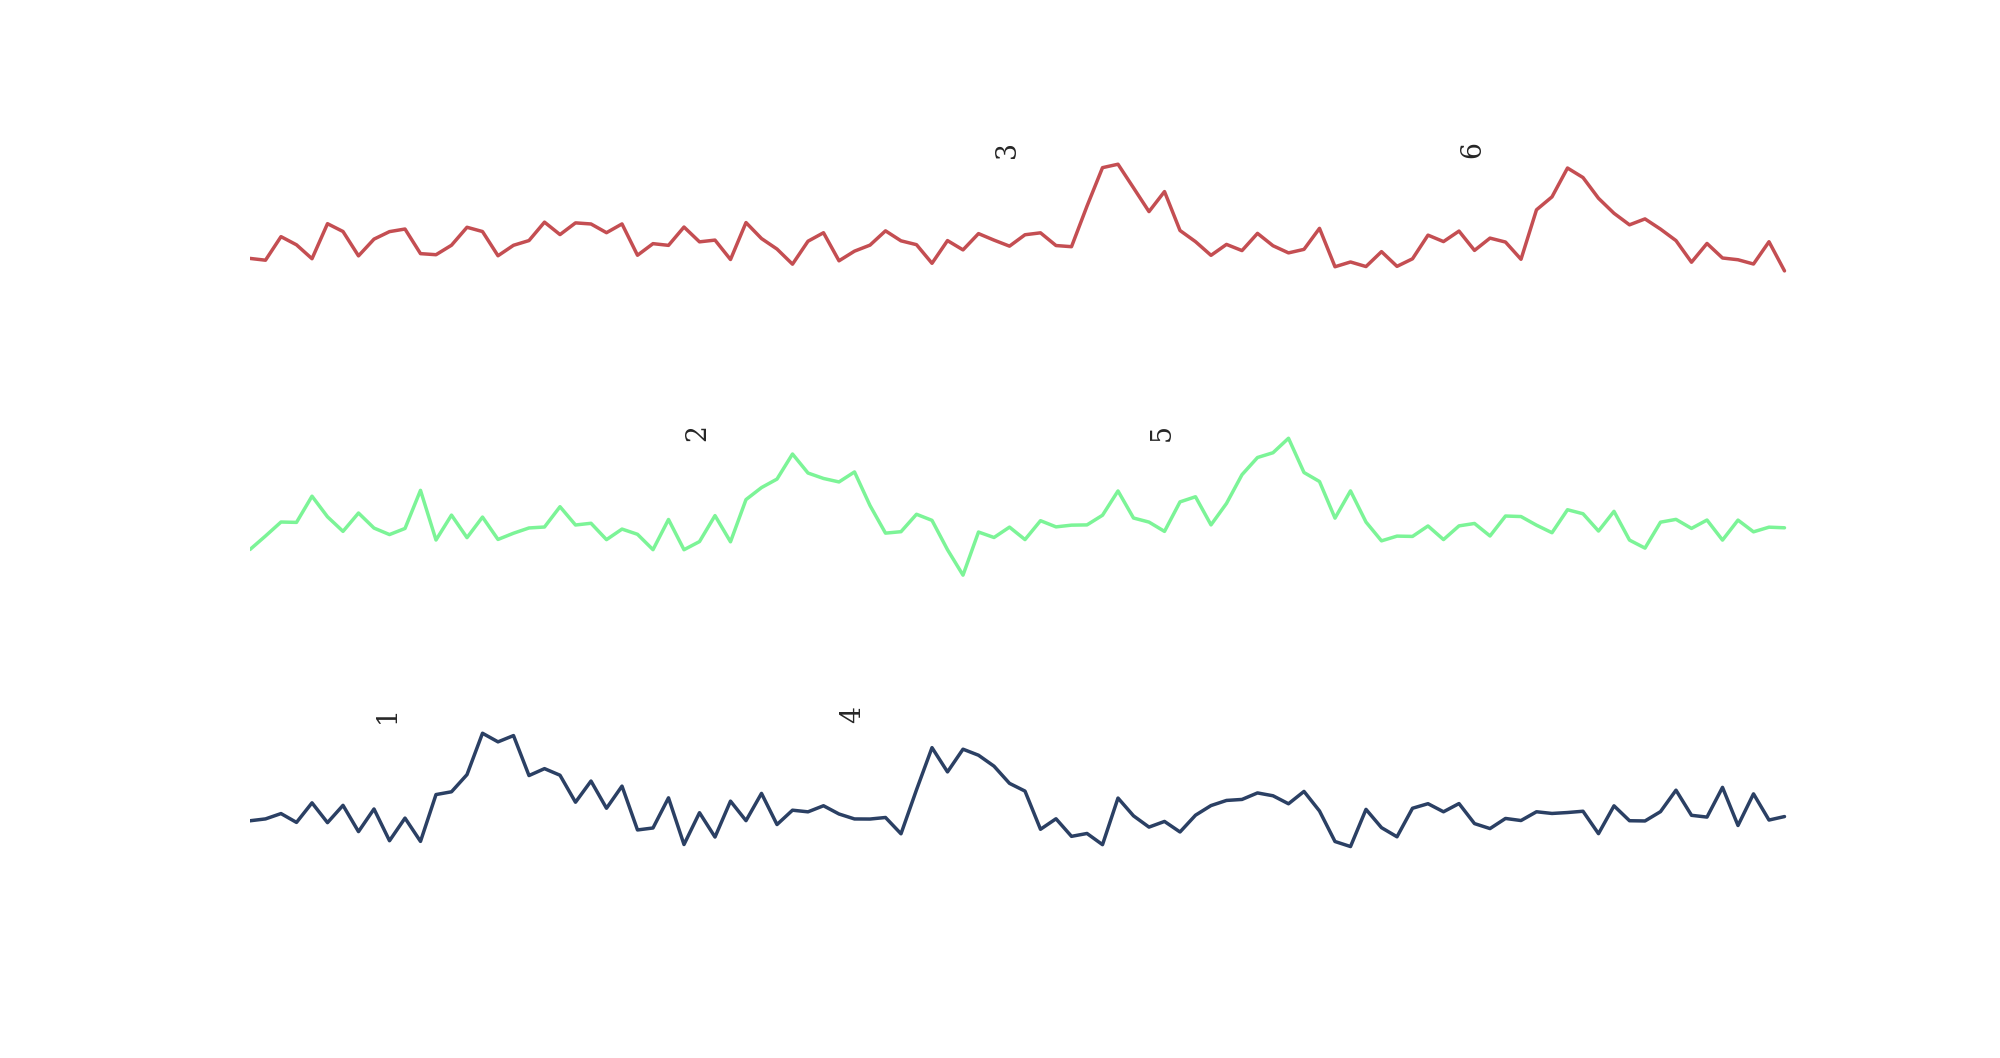
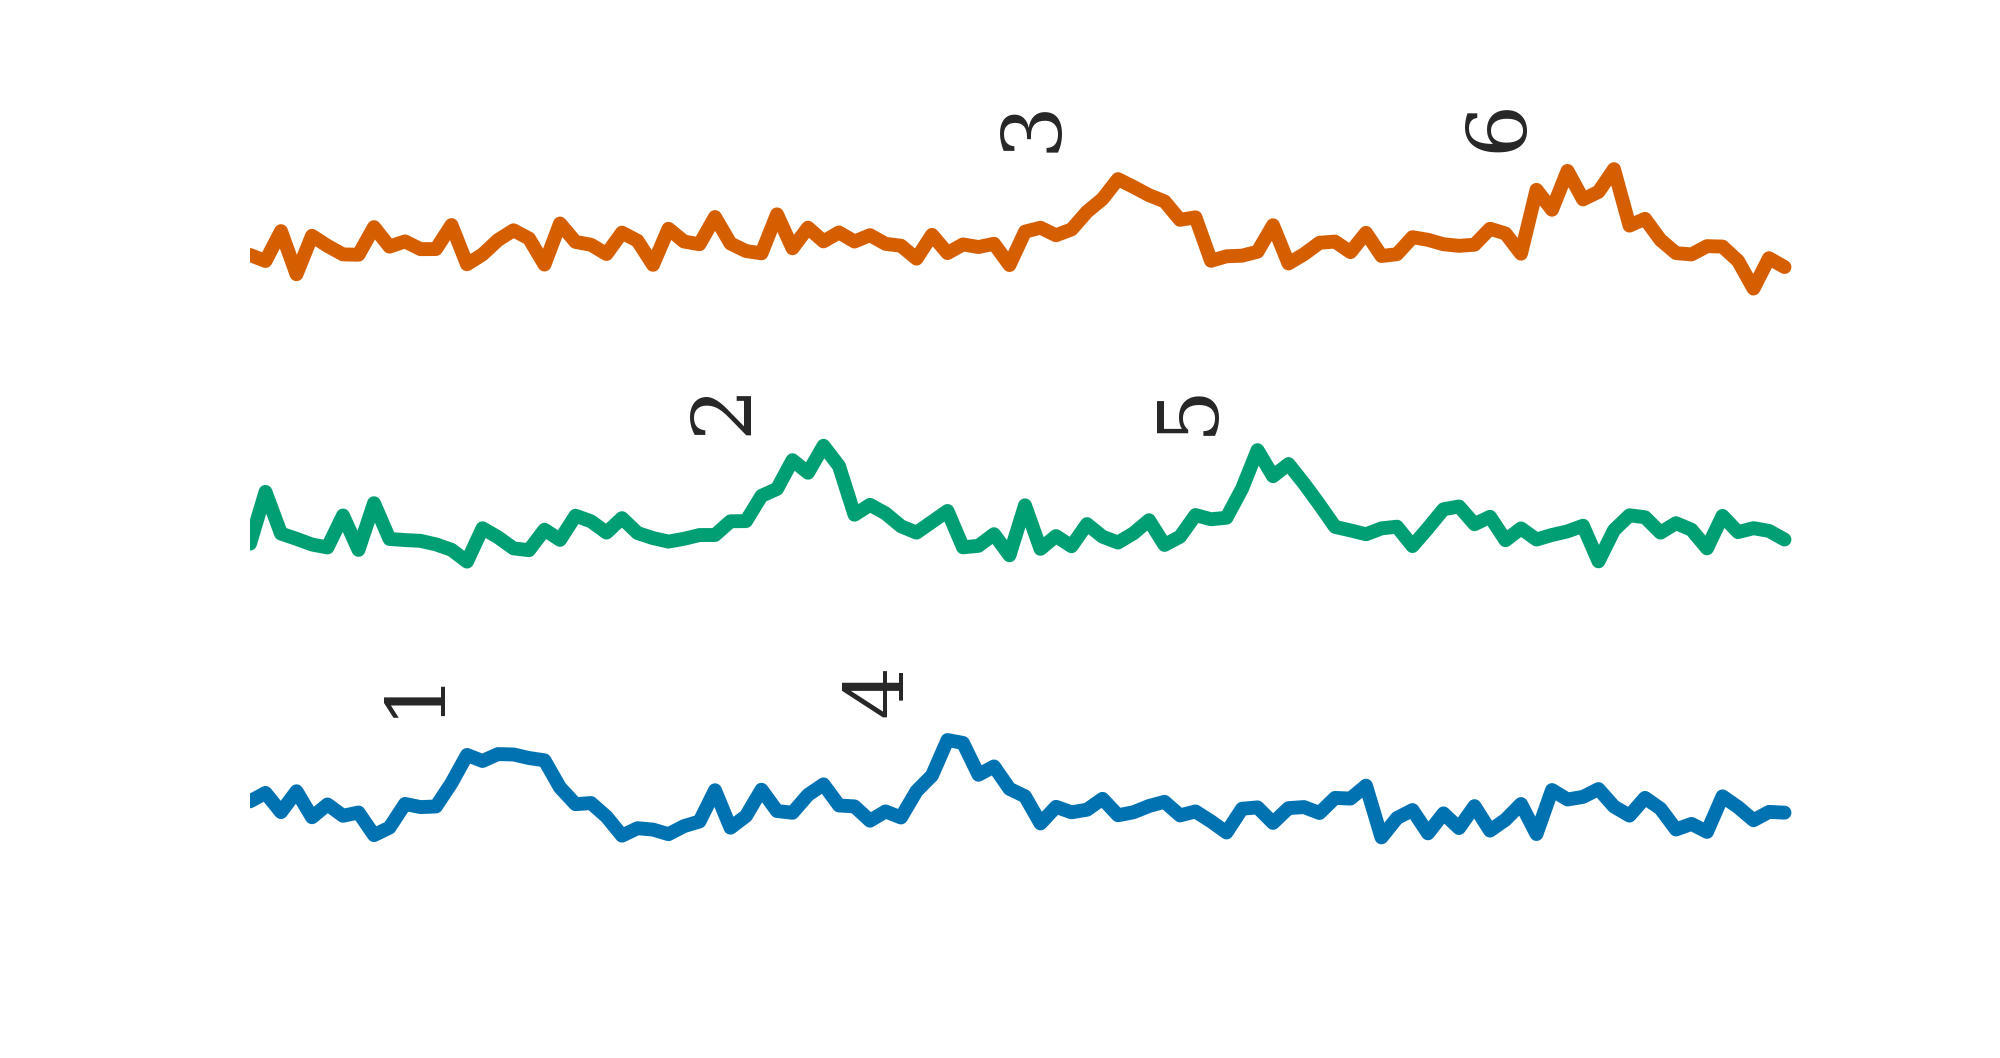
added model image

diff --git a/time_decoding/plotting.py b/time_decoding/plotting.py
@@ -277,21 +277,23 @@ def model_image_create_onsets():
     h, v = -0.1 * 20, 0.1
 
     # Colors
-    cmap = sns.color_palette(3)
+    cmap = sns.color_palette("colorblind", n_colors=3)
+    width = 10
+    fsize = 60
 
     # Plot
-    plt.plot([0] * 100, color=cmap[0])
-    plt.vlines([10, 40], 0, 0.5, color=cmap[0])
-    plt.text(10 + h, 0.5 + v, '1', rotation=90)
-    plt.text(40 + h, 0.5 + v, '4', rotation=90)
-    plt.plot([2] * 100, color=cmap[1])
-    plt.vlines([30, 60], 2, 2.5, color=cmap[1])
-    plt.text(30 + h, 2.5 + v, '2', rotation=90)
-    plt.text(60 + h, 2.5 + v, '5', rotation=90)
-    plt.plot([4] * 100, color=cmap[2])
-    plt.vlines([50, 80], 4, 4.5, color=cmap[2])
-    plt.text(50 + h, 4.5 + v, '3', rotation=90)
-    plt.text(80 + h, 4.5 + v, '6', rotation=90)
+    plt.plot([0] * 100, color=cmap[0], linewidth=width)
+    plt.vlines([10, 40], 0, 0.5, color=cmap[0], linewidth=width)
+    plt.text(10 + h, 0.5 + v, '1', rotation=90, fontsize=fsize)
+    plt.text(40 + h, 0.5 + v, '4', rotation=90, fontsize=fsize)
+    plt.plot([2] * 100, color=cmap[1], linewidth=width)
+    plt.vlines([30, 60], 2, 2.5, color=cmap[1], linewidth=width)
+    plt.text(30 + h, 2.5 + v, '2', rotation=90, fontsize=fsize)
+    plt.text(60 + h, 2.5 + v, '5', rotation=90, fontsize=fsize)
+    plt.plot([4] * 100, color=cmap[2], linewidth=width)
+    plt.vlines([50, 80], 4, 4.5, color=cmap[2], linewidth=width)
+    plt.text(50 + h, 4.5 + v, '3', rotation=90, fontsize=fsize)
+    plt.text(80 + h, 4.5 + v, '6', rotation=90, fontsize=fsize)
     plt.axis('off')
     plt.ylim(-.1, 5)
 
@@ -305,6 +307,8 @@ def model_image_create_convolved_onsets(noise=False):
     onsets1[[10, 40]] = 1
     onsets2[[30, 60]] = 1
     onsets3[[50, 80]] = 1
+    width = 10
+    fsize = 60
 
     # Convolve the onsets
     hkernel = _hrf_kernel('spm', 1, oversampling=1)
@@ -331,64 +335,65 @@ def model_image_create_convolved_onsets(noise=False):
     h, v = -0.1 * 20, 0.1
 
     # Colors
-    cmap = color_palette(3)
+    cmap = sns.color_palette("colorblind", n_colors=3)
 
     # Plot
-    plt.plot(conv_onsets1, color=cmap[0])
-    plt.text(10 + h, 0.5 + v, '1', rotation=90)
-    plt.text(40 + h, 0.5 + v, '4', rotation=90)
-    plt.plot(2 + conv_onsets2, color=cmap[1])
-    plt.text(30 + h, 2.5 + v, '2', rotation=90)
-    plt.text(60 + h, 2.5 + v, '5', rotation=90)
-    plt.plot(4 + conv_onsets3, color=cmap[2])
-    plt.text(50 + h, 4.5 + v, '3', rotation=90)
-    plt.text(80 + h, 4.5 + v, '6', rotation=90)
+    plt.plot(conv_onsets1, color=cmap[0], linewidth=width)
+    plt.text(10 + h, 0.5 + v, '1', rotation=90, fontsize=fsize)
+    plt.text(40 + h, 0.5 + v, '4', rotation=90, fontsize=fsize)
+    plt.plot(2 + conv_onsets2, color=cmap[1], linewidth=width)
+    plt.text(30 + h, 2.5 + v, '2', rotation=90, fontsize=fsize)
+    plt.text(60 + h, 2.5 + v, '5', rotation=90, fontsize=fsize)
+    plt.plot(4 + conv_onsets3, color=cmap[2], linewidth=width)
+    plt.text(50 + h, 4.5 + v, '3', rotation=90, fontsize=fsize)
+    plt.text(80 + h, 4.5 + v, '6', rotation=90, fontsize=fsize)
     plt.axis('off')
 
-    plt.figure(figsize=(4, 5))
+    plt.show()
 
 
 def model_image_estimation_matrix():
     """ """
     general_settings()
+    fsize = 60
 
     # Colors
-    cmap = color_palette(3)
-    h, offset = 0.4, -0.6
+    cmap = sns.color_palette("colorblind", n_colors=3)
+    h, offset = 0.6, -0.6
     plt.xlim(offset, 4)
     plt.ylim(0, 7)
     plt.axis('off')
 
     # Onset texts:
-    plt.text(offset, 6, "1: ", color='k')
-    plt.text(offset, 5, "2: ", color='k')
-    plt.text(offset, 4, "3: ", color='k')
-    plt.text(offset, 3, "4: ", color='k')
-    plt.text(offset, 2, "5: ", color='k')
-    plt.text(offset, 1, "6: ", color='k')
+    plt.text(offset, 6, "1: ", color='k', fontsize=fsize)
+    plt.text(offset, 5, "2: ", color='k', fontsize=fsize)
+    plt.text(offset, 4, "3: ", color='k', fontsize=fsize)
+    plt.text(offset, 3, "4: ", color='k', fontsize=fsize)
+    plt.text(offset, 2, "5: ", color='k', fontsize=fsize)
+    plt.text(offset, 1, "6: ", color='k', fontsize=fsize)
 
     # First column
-    plt.text(0, 6, "0.6", color=cmap[0])
-    plt.text(0, 5, "0.2", color=cmap[0])
-    plt.text(0, 4, "0.1", color=cmap[0])
-    plt.text(0, 3, "0.7", color=cmap[0])
-    plt.text(0, 2, "0.2", color=cmap[0])
-    plt.text(0, 1, "0.3", color=cmap[0])
+    plt.text(0, 6, "0.6", color=cmap[0], fontsize=fsize)
+    plt.text(0, 5, "0.2", color=cmap[0], fontsize=fsize)
+    plt.text(0, 4, "0.1", color=cmap[0], fontsize=fsize)
+    plt.text(0, 3, "0.7", color=cmap[0], fontsize=fsize)
+    plt.text(0, 2, "0.2", color=cmap[0], fontsize=fsize)
+    plt.text(0, 1, "0.3", color=cmap[0], fontsize=fsize)
 
     # Second column
-    plt.text(h, 6, "0.1", color=cmap[1])
-    plt.text(h, 5, "0.7", color=cmap[1])
-    plt.text(h, 4, "0.1", color=cmap[1])
-    plt.text(h, 3, "0.2", color=cmap[1])
-    plt.text(h, 2, "0.6", color=cmap[1])
-    plt.text(h, 1, "0.2", color=cmap[1])
+    plt.text(h, 6, "0.1", color=cmap[1], fontsize=fsize)
+    plt.text(h, 5, "0.7", color=cmap[1], fontsize=fsize)
+    plt.text(h, 4, "0.1", color=cmap[1], fontsize=fsize)
+    plt.text(h, 3, "0.2", color=cmap[1], fontsize=fsize)
+    plt.text(h, 2, "0.6", color=cmap[1], fontsize=fsize)
+    plt.text(h, 1, "0.2", color=cmap[1], fontsize=fsize)
 
     # Third column
-    plt.text(2 * h, 6, "0.3", color=cmap[2])
-    plt.text(2 * h, 5, "0.1", color=cmap[2])
-    plt.text(2 * h, 4, "0.8", color=cmap[2])
-    plt.text(2 * h, 3, "0.1", color=cmap[2])
-    plt.text(2 * h, 2, "0.2", color=cmap[2])
-    plt.text(2 * h, 1, "0.5", color=cmap[2])
+    plt.text(2 * h, 6, "0.3", color=cmap[2], fontsize=fsize)
+    plt.text(2 * h, 5, "0.1", color=cmap[2], fontsize=fsize)
+    plt.text(2 * h, 4, "0.8", color=cmap[2], fontsize=fsize)
+    plt.text(2 * h, 3, "0.1", color=cmap[2], fontsize=fsize)
+    plt.text(2 * h, 2, "0.2", color=cmap[2], fontsize=fsize)
+    plt.text(2 * h, 1, "0.5", color=cmap[2], fontsize=fsize)
 
     plt.show()
